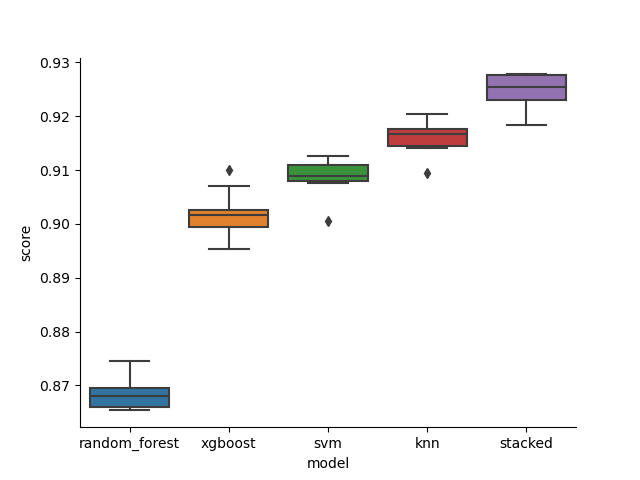
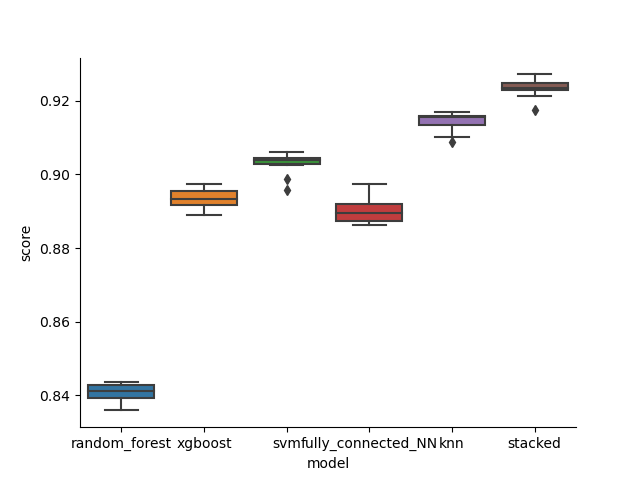
added skorch fully connected network to model stacking

diff --git a/MachineLearning/ModelStacking/stacking.py b/MachineLearning/ModelStacking/stacking.py
@@ -11,16 +11,19 @@ from sklearn.model_selection import cross_val_score, RepeatedStratifiedKFold, tr
 from sklearn.model_selection import RandomizedSearchCV,  GridSearchCV
 from sklearn.metrics import balanced_accuracy_score
 from sklearn.preprocessing import StandardScaler
-from xgboost import XGBClassifier
+from xgboost import XGBClassifier, XGBRegressor
 # from mlxtend.regressor import StackingCVRegressor
 from sklearn.ensemble import StackingClassifier
 from sklearn.linear_model import LogisticRegressionCV
 from sklearn.discriminant_analysis import QuadraticDiscriminantAnalysis as QDA
-
+import torch
+from skorch import NeuralNetClassifier
+import torch.optim as optim
 
  
-
-
+if torch.cuda.is_available():
+    print("CUDA is available, things will be fast")
+device = "cuda" if torch.cuda.is_available() else "cpu"
 
 
 # grid search before stacking
@@ -33,9 +36,27 @@ X_train_std = sc.fit_transform(X_train)
 X_test_std = sc.transform(X_test)
 
 
+class Net(torch.nn.Module):
+    def __init__(self, num_units = 10, dropout = 0.5):
+        super(Net, self).__init__()
+        self.fc = torch.nn.Sequential(torch.nn.Linear(20, num_units),
+            torch.nn.ReLU(inplace=True),
+            torch.nn.Dropout(dropout),
+            torch.nn.Linear(num_units, 10),
+            torch.nn.Linear(10, 2),
+            torch.nn.Softmax(dim=-1))
+    def forward(self, x):
+        x = x.to(torch.float32)
+        return self.fc(x)
+
+
+nn = NeuralNetClassifier(Net, batch_size = 32, train_split = False, optimizer__lr = 0.001, max_epochs = 1,
+                         optimizer__momentum = 0.9, device = device,
+                         optimizer = optim.SGD)
+
 def pipeline(X_train_std, X_test_std, y_train, y_test, model, param_grid, gridsearch = False, cv = 5, 
              scoring_fit = 'balanced_accuracy', scoring_test = balanced_accuracy_score,
-             do_probabilities = False, n_iter = 1):
+             do_probabilities = False, n_iter = 10):
     if gridsearch:
         gs = GridSearchCV(estimator = model, param_grid = param_grid, cv = cv, scoring = scoring_fit,
                           n_jobs = -1, verbose = 2)
@@ -52,17 +73,24 @@ def pipeline(X_train_std, X_test_std, y_train, y_test, model, param_grid, gridse
     return [best_model, pred, score]
 
 # Models for which hyperparameters should be tuned
-models_to_train = [XGBClassifier(n_jobs = -1, tree_method = "hist"), RandomForestClassifier(n_jobs = -1)]
+models_to_train = [nn, XGBClassifier(n_jobs = -1, tree_method = "hist"), RandomForestClassifier(n_jobs = -1)]
 
 # Defining the hyperparameters to optimize
 grid_parameters = [
+    {# fully connected NN
+    'max_epochs':[10, 20],
+	'optimizer__lr': [0.1, 0.01],
+	'module__num_units': [50, 100],
+	'module__dropout': [0.1, 0.5],
+    'optimizer__momentum': [0.9]
+     },
     { # XGBoost
         'n_estimators': [400, 700, 1000],
         'colsample_bytree': [0.7, 0.8],
-        'max_depth': [15,20,25],
-        'reg_alpha': [1.1, 1.2, 1.3],
-        'reg_lambda': [1.1, 1.2, 1.3],
-        'subsample': [0.7, 0.8, 0.9]
+        'max_depth': [10, 15,20,25],
+        'reg_alpha': [1.1, 1.2],
+        'reg_lambda': [1.1, 1.2],
+        'subsample': [0.7, 0.8]
     },
     { # Random Forest
         'max_depth':[3, 5, 10, 13],
@@ -76,15 +104,15 @@ grid_parameters = [
 models_pred_scores = []
 for i, model in enumerate(models_to_train):
     params = grid_parameters[i]
-    res = pipeline(X_train_std, X_test_std, y_train, y_test, model, params, gridsearch=True)
+    res = pipeline(X_train_std, X_test_std, y_train, y_test, model, params, n_iter = 10, gridsearch=False)
     models_pred_scores.append(res)
     
     
     
-base_models = [('random_forest', models_pred_scores[1][0]),
-               ('xgboost', models_pred_scores[0][0]),
+base_models = [('random_forest', models_pred_scores[2][0]),
+               ('xgboost', models_pred_scores[1][0]),
                ('svm', SVC()), 
-               #('qda', QDA()),
+               ('fully_connected_NN', models_pred_scores[0][0]),
                ('knn', KNeighborsClassifier(n_neighbors=15))]
 
 meta_model = LogisticRegressionCV()
@@ -98,10 +126,10 @@ stacking_model = StackingClassifier(estimators=base_models,
 
 
 # dictionary for models in stack
-models_dict = {'random_forest': models_pred_scores[1][0],
-               'xgboost': models_pred_scores[0][0],
+models_dict = {'random_forest': models_pred_scores[2][0],
+               'xgboost': models_pred_scores[1][0],
                'svm': SVC(), 
-               #'qda': QDA(),
+               'fully_connected_NN': models_pred_scores[0][0],
                'knn': KNeighborsClassifier(n_neighbors=15, n_jobs = -1),
                'stacked': stacking_model
         }
@@ -127,6 +155,7 @@ scores["ID"] = scores.index
 
 scores_long = scores.melt(id_vars = "ID", var_name = "model", value_name = "score")
 
-
+scores.to_csv("scores.csv")
+scores_long.to_csv("scores_long.csv")
 
 

diff --git a/MachineLearning/ModelStacking/visualizations.py b/MachineLearning/ModelStacking/visualizations.py
@@ -1,5 +1,6 @@
 
 from sklearn.datasets import make_classification
+import pandas as pd
 
 
 X, y = make_classification(n_samples=50000, 
@@ -13,11 +14,12 @@ X, y = make_classification(n_samples=50000,
 
 
 if __name__ == "__main__":
+    scores = pd.read_csv("scores.csv")
+    scores_long = pd.read_csv("scores_long.csv")
     import matplotlib.pyplot as plt
     import seaborn as sns 
     import numpy as np
     import pandas as pd
-    from stacking import scores_long
     print(type(X))
     data = pd.DataFrame.from_records(X)
     data["y"] = y
